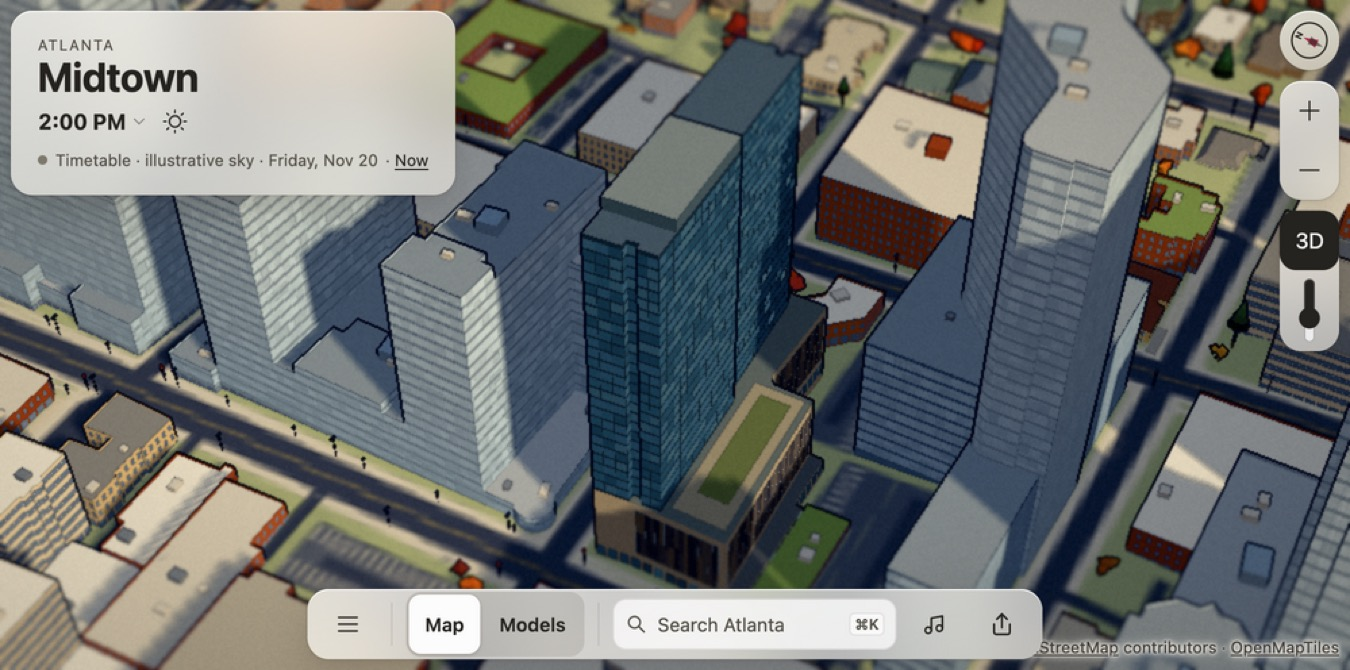
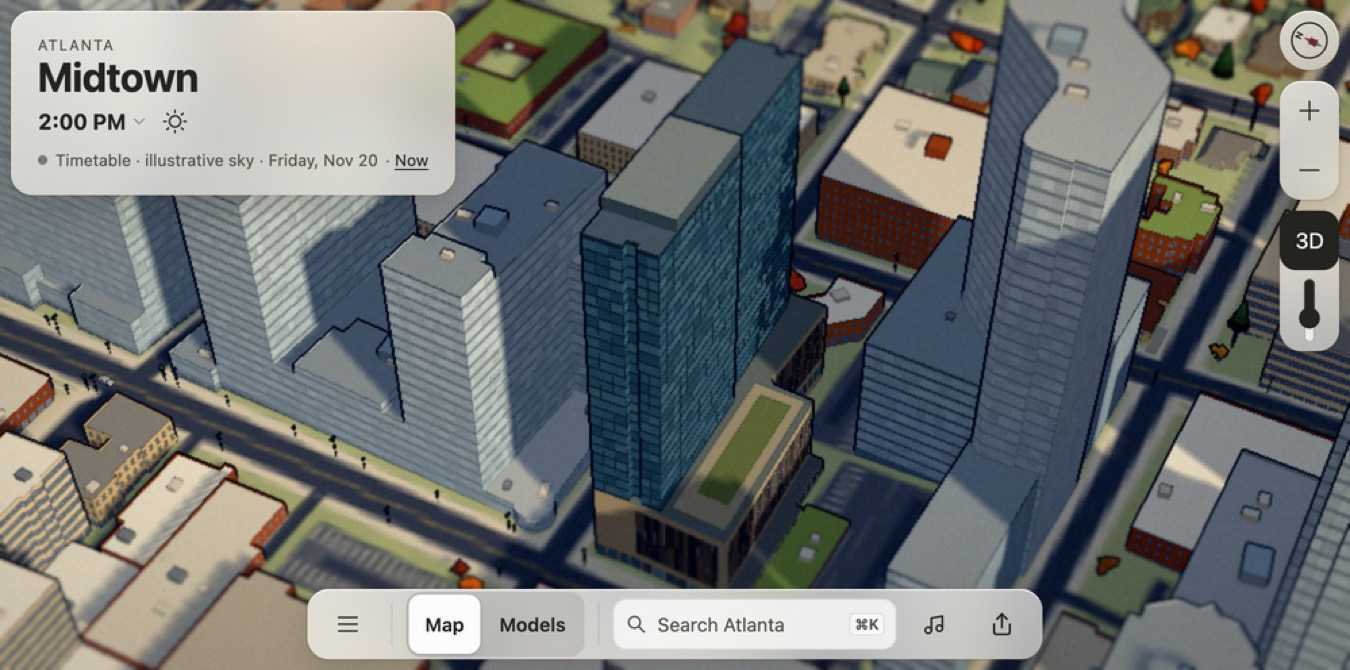
Light 903 Peachtree like an apartment tower at night
About a third of the units stay lit at 23:00, the terrace balustrade
glows warm and the storefronts are lit.

Changed region(s): [[0.7467, 0.9552, 0.9956, 0.9851], [0.56, 0.4179, 0.5911, 0.5075]]

diff --git a/web/src/city/903-peachtree.ts b/web/src/city/903-peachtree.ts
@@ -44,7 +44,7 @@ export function create903Peachtree(buildings: VBuilding[], site: VBuilding, grid
   shell.prism(plan, shell.base, storefrontTop, stone, '#777773');
   shell.prism(deck, storefrontTop, deckTop, stone, '#7c827b');
   faces(plan, (a, b) =>
-    shell.facade(a, b, siteFloor + 0.2, storefrontTop - 0.25, 1, 3.25, 0.78, 0.88, glass, 0.16));
+    shell.facade(a, b, siteFloor + 0.2, storefrontTop - 0.25, 1, 3.25, 0.78, 0.88, glass, 0.45));
   faces(deck, (a, b, length) => {
     const dx = b[0] - a[0], dz = b[1] - a[1];
     const midpointZ = (a[1] + b[1]) / 2;
@@ -81,10 +81,17 @@ export function create903Peachtree(buildings: VBuilding[], site: VBuilding, grid
     deckTop, deckTop + 0.18, '#8f8b80', '#aaa18d');
   shell.prism([[-28, 6], [9.1, 6.3], [8.7, 14.8], [-28.5, 14.5]],
     deckTop + 0.18, deckTop + 0.22, '#6c7560', '#7d865e');
+  // Warm low lighting along the terrace's glass balustrade, as in the twilight aerial.
+  const terrace: P2[] = [[-35, 2.8], [12.6, 3.2], [11.7, 17.5], [-36.1, 17.1]];
+  terrace.forEach(([x, z], i) => {
+    const [nx, nz] = terrace[(i + 1) % terrace.length];
+    shell.lights.quad([x, deckTop + 0.18, z], [x, deckTop + 1.05, z], [nx, deckTop + 1.05, nz], [nx, deckTop + 0.18, nz], '#e8c995');
+  });
 
   shell.prism(tower, deckTop, shaftTop, dark, '#6a777c');
+  // Apartments, not offices: at 23:00 roughly a third of the units are still lit.
   faces(tower, (a, b, length) => {
-    shell.facade(a, b, deckTop + 0.55, shaftTop - 0.85, 25, length > 15 ? 3.35 : 2.8, 0.95, 0.82, glass, 0.09);
+    shell.facade(a, b, deckTop + 0.55, shaftTop - 0.85, 25, length > 15 ? 3.35 : 2.8, 0.95, 0.82, glass, 0.32);
   });
   const cap = plant.rings[0].map(([x, z]): P2 => [x - origin[0], z - origin[1]]).reverse();
   shell.prism(cap, shaftTop, siteFloor + plant.h, '#647478', '#939b99');

diff --git a/docs/log/ui/903-peachtree/README.md b/docs/log/ui/903-peachtree/README.md
@@ -4,7 +4,7 @@ The `osm:way:1284487937` skin follows the mapped 90 × 44 m parent, with an appr
 
 Henry’s daylight photographs compare the north and east approach with the opposite south and west corner. The corner close-up shows glazed ground frontage below a projecting glass corner and metal soffit, and the motor court elevation shows the screens framed by pale stone. The leasing flyer confirms the glazing continues around the Peachtree storefront. [Façade contractor’s exterior photographs](https://henryinc.com/portfolio/decorative_facades_at_903_peachtree/) · [Retail leasing flyer](https://www.cartelproperties.com/wp-content/uploads/2023/08/903-Peachtree-Retail-Flyer.pdf)
 
-The property’s twilight aerial shows scattered warm apartments and warm terrace and entry lighting. The garage screen reads as a dark panel field. City uses an illustrative window pattern and simplified ambient terrace and entry lighting. A reliable full-night exterior photograph was unavailable. [Property twilight aerial](https://resource.rentcafe.com/image/upload/q_auto%2Cf_auto/s3/2/102852/903%20peachtree%20midtown_2024_twilight_drone%20aerials_155%281%29.jpg)
+The property’s twilight aerial shows scattered warm apartments and warm terrace and entry lighting. The garage screen reads as a dark panel field. City uses an illustrative residential window pattern with about a third of the units lit at 23:00, a warm glow along the terrace balustrade, and lit storefronts. A reliable full-night exterior photograph was unavailable. [Property twilight aerial](https://resource.rentcafe.com/image/upload/q_auto%2Cf_auto/s3/2/102852/903%20peachtree%20midtown_2024_twilight_drone%20aerials_155%281%29.jpg)
 
 | Review view | City query |
 |---|---|
